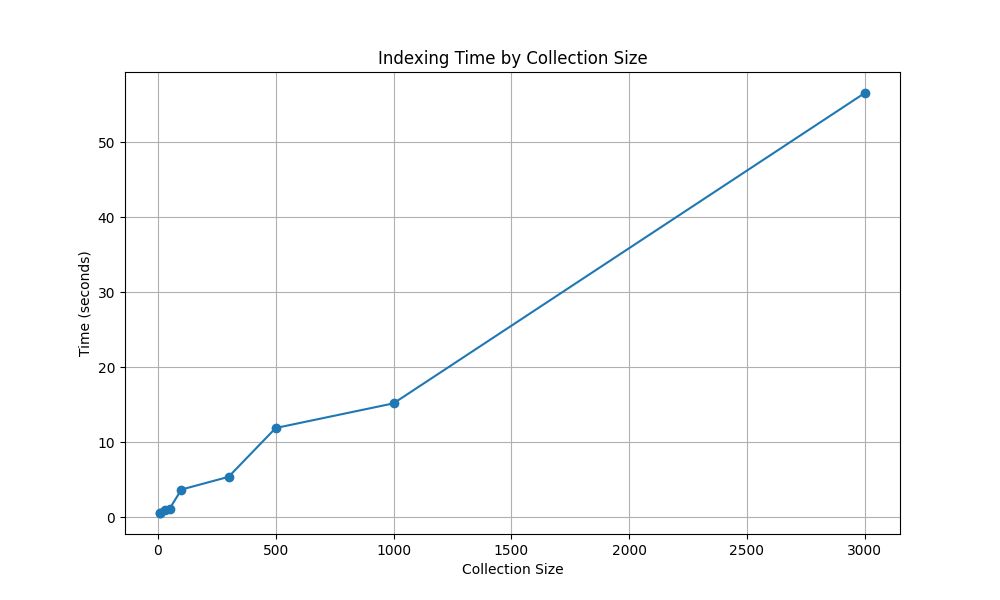
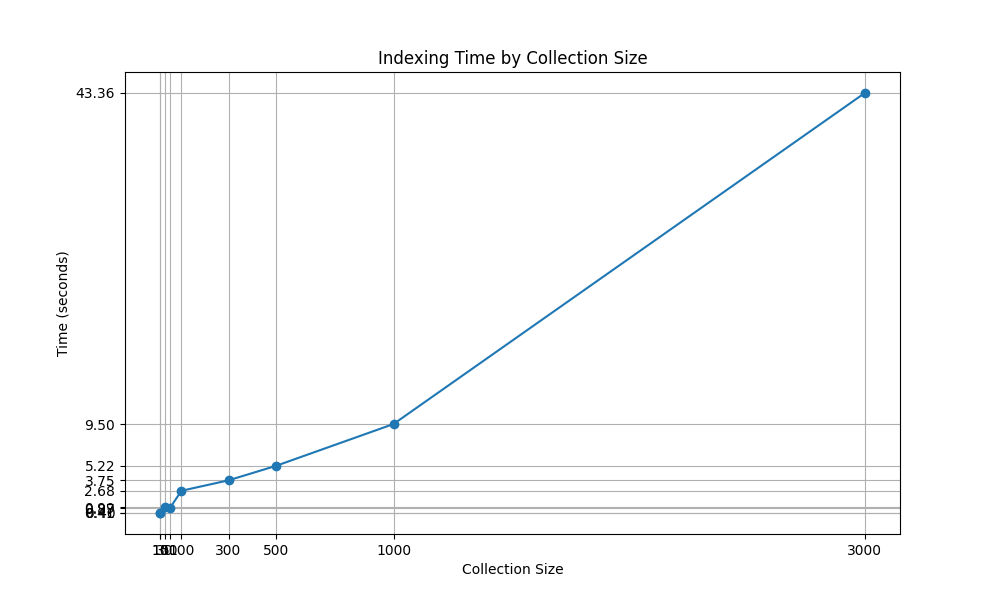
feat: add plot

diff --git a/src/manager/plots_manager.py b/src/manager/plots_manager.py
@@ -23,10 +23,13 @@ class PlotsManager:
         plt.title('Indexing Time by Collection Size')
         plt.xlabel(self.__xlabel)
         plt.ylabel('Time (seconds)')
+
+        plt.xticks(collection_sizes)
+        plt.yticks(self.collections_manager.indexing_times)
+
         plt.grid(True)
 
-        plt.savefig(self.RESSOURCES_FOLDER
-                    + 'indexing_time_by_collection_size.png')
+        plt.savefig(self.RESSOURCES_FOLDER + 'indexing_time_by_collection_size.png')
         plt.show()
 
     def plot_document_length_evolution(self):
@@ -56,28 +59,28 @@ class PlotsManager:
     def plot_term_length_evolution(self):
         """
         Plot the evolution of term length as the collection size grows.
-        TODO : fix this plot (hard to read)
         """
-
-        # Extract collection sizes and term lengths
         collection_sizes = [
             collection.collection_statistics.collection_size for collection in self.collections_manager.collections]
         term_lengths = [
             collection.collection_statistics.term_lengths_in_collection for collection in self.collections_manager.collections]
 
-        plt.figure(figsize=(20, 6))
+        plt.figure(figsize=(50, 20))
         for i in range(len(self.collections_manager.collections)):
             plt.bar(
                 collection_sizes[i],
                 term_lengths[i],
                 label=self.collections_manager.collections[i].label,
-                alpha=0.5
+                alpha=1
             )
 
         plt.title('Term Length Evolution')
         plt.xlabel(self.__xlabel)
         plt.ylabel('Term Length')
         plt.legend()
+
+        plt.text(collection_sizes[i], term_lengths[i], str(
+            term_lengths[i]), ha='center', va='bottom')
 
         plt.savefig(self.RESSOURCES_FOLDER + 'term_length_evolution.png')
         plt.show()
@@ -109,30 +112,32 @@ class PlotsManager:
     def plot_collection_frequency_of_terms_evolution(self):
         """
         Plot the evolution of collection frequency of terms as the collection size grows.
-        TODO : fix this plot (hard to read and possibly wrong)
         """
-        plt.figure(figsize=(10, 6))
-
-        # Extract collection sizes and term lengths
         collection_sizes = [
             collection.collection_statistics.collection_size for collection in self.collections_manager.collections]
         collection_frequencies = [
             collection.collection_statistics.collection_frequency_of_terms for collection in self.collections_manager.collections]
 
-        plt.figure(figsize=(20, 6))
+        plt.figure(figsize=(50, 20))
         for i in range(len(self.collections_manager.collections)):
             plt.bar(
                 collection_sizes[i],
                 collection_frequencies[i],
                 label=self.collections_manager.collections[i].label,
-                alpha=0.5
+                alpha=1
             )
+
+            # Ajouter une annotation textuelle avec la valeur exacte
+            plt.text(collection_sizes[i], collection_frequencies[i], str(
+                collection_frequencies[i]), ha='center', va='bottom')
 
         plt.title('Collection Frequency of Terms Evolution')
         plt.xlabel(self.__xlabel)
         plt.ylabel('Collection Frequency of Terms')
         plt.legend()
 
-        plt.savefig(self.RESSOURCES_FOLDER
-                    + 'collection_frequency_of_terms_evolution.png')
+        # Activer le quadrillage
+        plt.grid(True)
+
+        plt.savefig(self.RESSOURCES_FOLDER + 'collection_frequency_of_terms_evolution.png')
         plt.show()

diff --git a/src/manager/text_processor.py b/src/manager/text_processor.py
@@ -5,9 +5,6 @@ from nltk.tokenize import word_tokenize
 from spacy.lang.en import English
 from spacy.lang.en.stop_words import STOP_WORDS
 
-from gensim import corpora
-from gensim.models.ldamodel import LdaModel
-
 
 """
 This class is responsible for processing the text.
@@ -105,26 +102,16 @@ class SpacyTextProcessor(TextProcessor):
         return [token for token in tokens if token not in self.stop_words]
 
 
-class GensimTextProcessor(TextProcessor):
+class CustomTextProcessor(TextProcessor):
     def __init__(self) -> None:
-        self.dictionary = None
-        self.lda_model = None
-        self.num_topics = 10
-        self.stop_words = set(stopwords.words('english'))
+        self.stemmer = SnowballStemmer('english')
+        self.stop_words = STOP_WORDS
 
     def stem(self, tokens: list) -> list:
         """
-        Stems the tokens using Gensim.
+        Stems the tokens using SnowballStemmer.
         """
-        self.dictionary = corpora.Dictionary([tokens])
-        corpus = [self.dictionary.doc2bow(tokens)]
-        self.lda_model = LdaModel(corpus, num_topics=self.num_topics, id2word=self.dictionary)
-        topics = self.lda_model.show_topics(
-            num_topics=self.num_topics,
-            num_words=10,
-            formatted=False
-        )
-        return [topic[0][1] for topic in topics]
+        return [self.stemmer.stem(token) for token in tokens]
 
     def remove_stop_words(self, tokens: list) -> list:
         """

diff --git a/src/models/collection.py b/src/models/collection.py
@@ -1,5 +1,9 @@
 from manager.text_processor import TextProcessor
 from manager.text_processor import SnowballTextProcessor
+from manager.text_processor import NltkTextProcessor
+from manager.text_processor import SpacyTextProcessor
+from manager.text_processor import CustomTextProcessor
+
 from models.statistics import Statistics
 
 from colorama import Fore, Style
@@ -15,7 +19,7 @@ import gzip
 
 class Collection:
     def __init__(self, filename: str) -> None:
-        self.text_processor = TextProcessor()
+        self.text_processor = CustomTextProcessor()
         self.filename = filename
         self.label = filename.split('/')[-1].split('.')[0]
 

diff --git a/src/manager/collections_manager.py b/src/manager/collections_manager.py
@@ -36,8 +36,6 @@ class CollectionsManager:
             if filename.endswith('.gz'):
                 file_path = os.path.join(self.folder_path, filename)
 
-                # Create a Collection for each file
-
                 start_time = time.time()
                 collection = Collection(file_path)
                 end_time = time.time()
